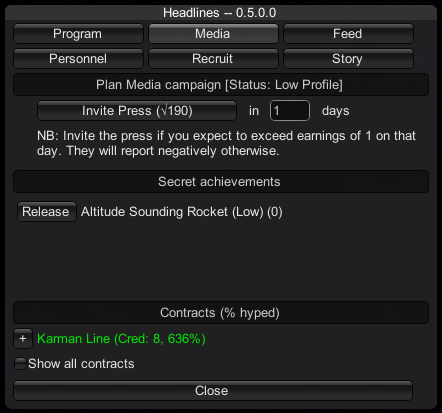
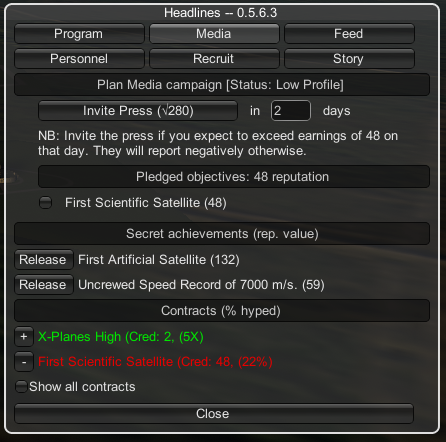
issue #139 + new media.secret.png

diff --git a/source/StoryEngine.cs b/source/StoryEngine.cs
@@ -2660,7 +2660,7 @@ namespace Headlines
             generationLevel = Math.Min(5, generationLevel);
             
             int poolSize = 4 +
-                           (int) Math.Round((double) generationLevel * (2 * _reputationManager.Peak() + 1)) +
+                           (int) Math.Round((double) generationLevel * (_reputationManager.Peak())) +
                            storytellerRand.Next(-1, 2);
             while (poolSize > 0)
             {

diff --git a/Properties/AssemblyInfo.cs b/Properties/AssemblyInfo.cs
@@ -32,5 +32,5 @@ using System.Runtime.InteropServices;
 // You can specify all the values or you can default the Build and Revision Numbers
 // by using the '*' as shown below:
 // [assembly: AssemblyVersion("1.0.*")]
-[assembly: AssemblyVersion("0.5.6.2")]
-[assembly: AssemblyFileVersion("0.5.6.2")]
+[assembly: AssemblyVersion("0.5.6.3")]
+[assembly: AssemblyFileVersion("0.5.6.3")]
